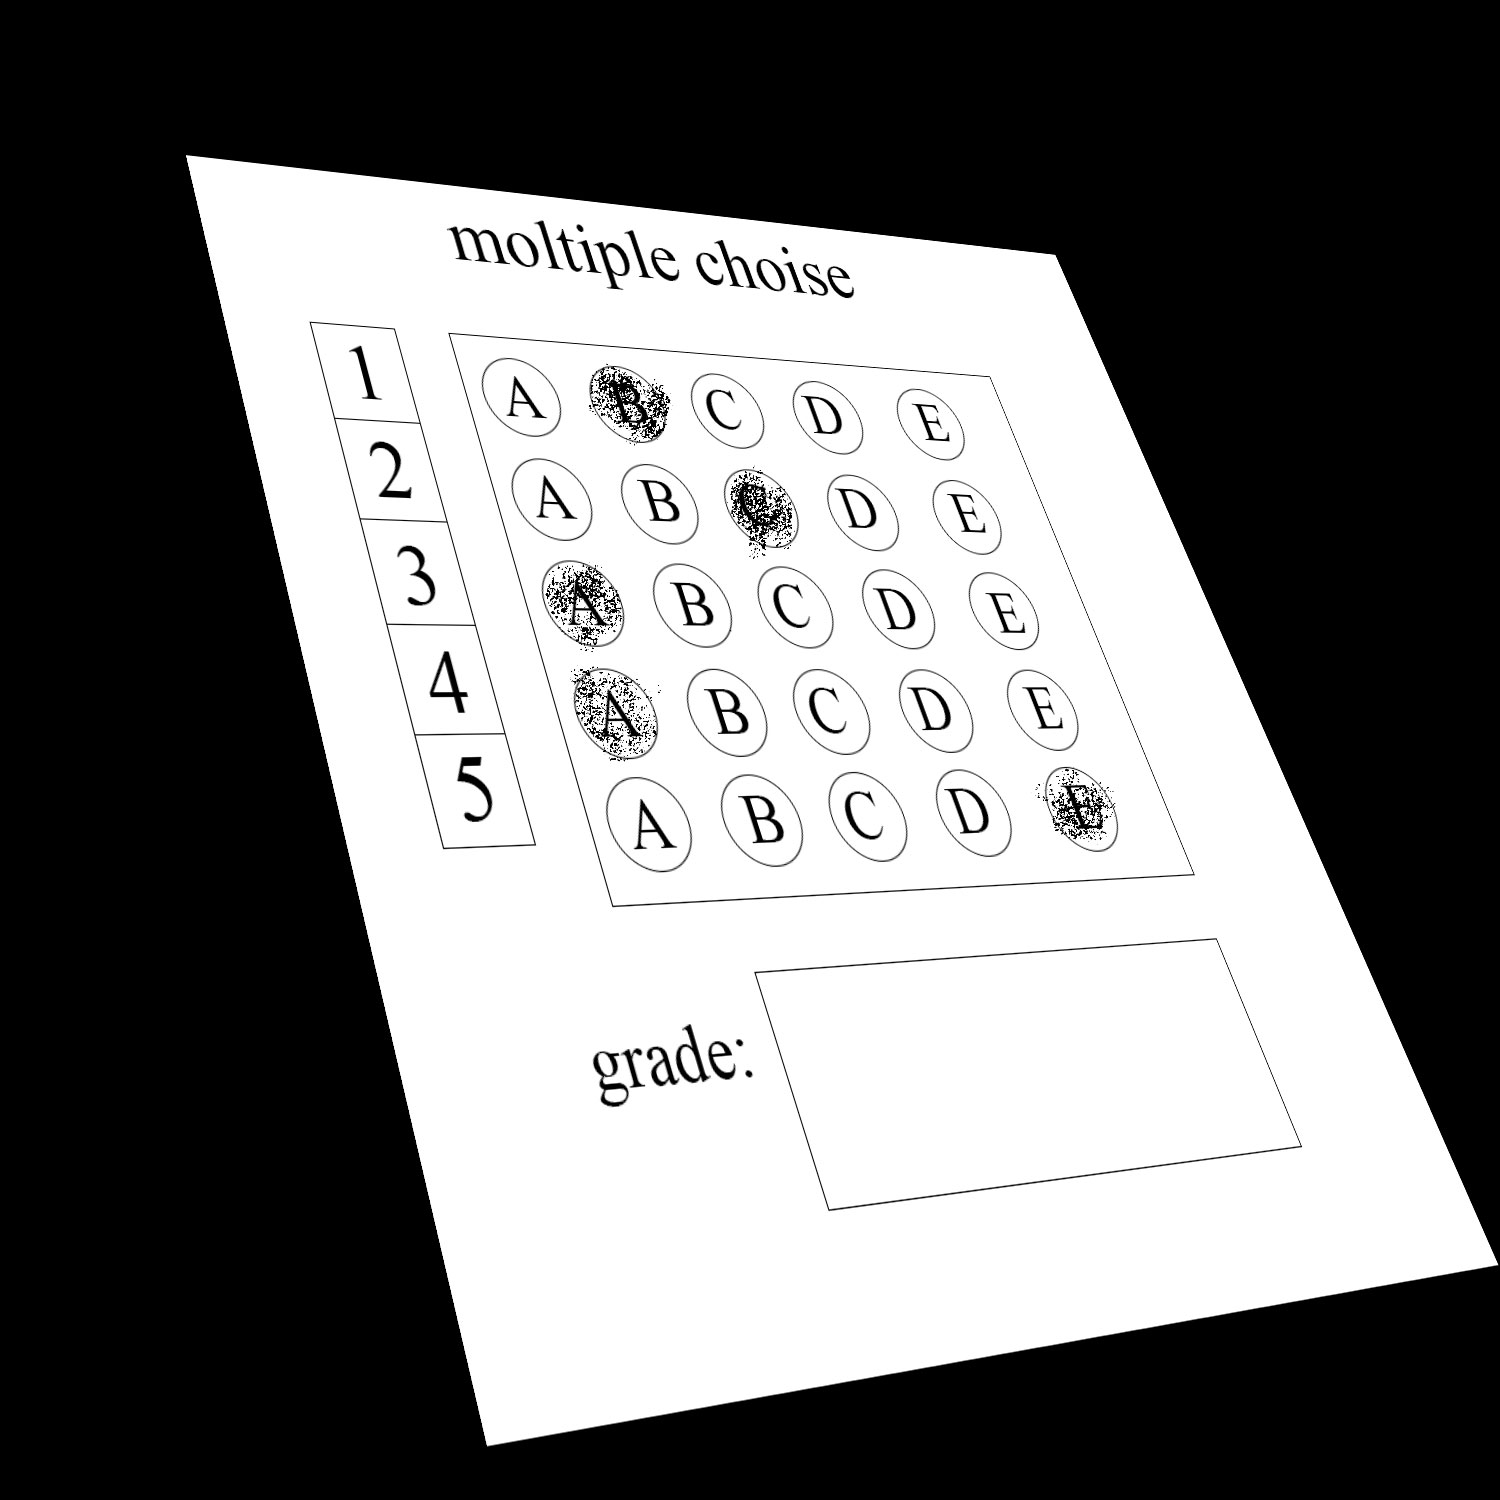
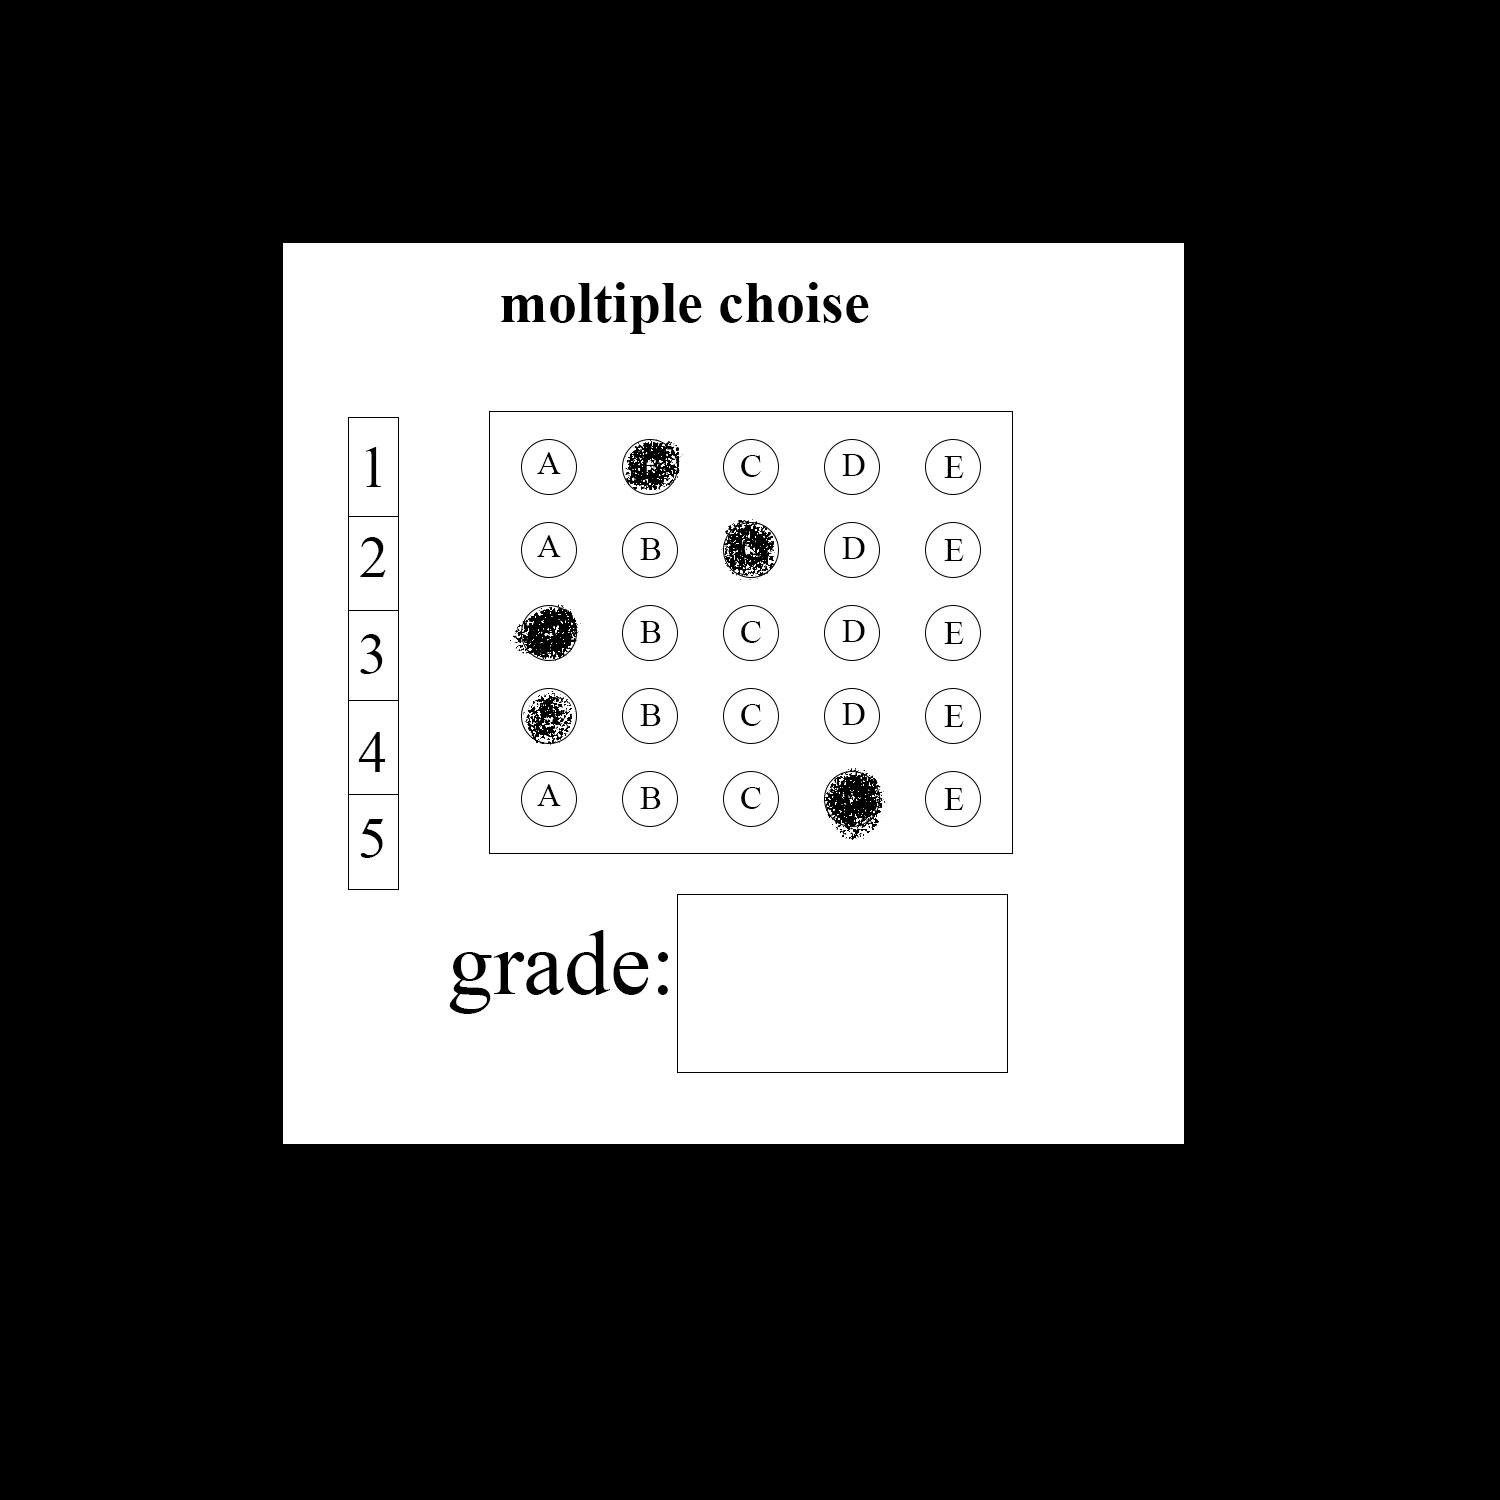
show answer was added

Changed region(s): [[0.184, 0.1533, 1.0, 0.9813], [0.1227, 0.092, 0.736, 0.5827]]

diff --git a/omr.py b/omr.py
@@ -9,15 +9,15 @@ choises = 5
 ans = [1, 2, 0, 1, 4]
 ###########################
 
-img = cv2.imread("./images/test1.jpg")
+img = cv2.imread("./images/test2.jpg")
 img = cv2.resize(img, (widthImg, heightImg))
 imgCountours = img.copy()
 imgBigestCountours = img.copy()
 imgGray = cv2.cvtColor(img, cv2.COLOR_BGR2GRAY)
 
-imgblur = cv2.GaussianBlur(imgGray, (3, 3), 1)
+imgblur = cv2.GaussianBlur(imgGray, (3, 3), 2)
 imgCanny = cv2.Canny(imgblur, 10, 50)
-# imgCanny = cv2.dilate(imgCanny, (3, 3), iterations=1)
+imgCanny = cv2.dilate(imgCanny, (3, 3), iterations=1)
 contours, _ = cv2.findContours(
     imgCanny, cv2.RETR_TREE, cv2.CHAIN_APPROX_SIMPLE)
 
@@ -40,7 +40,7 @@ if biggestContour.size != 0 and gradePoints.size != 0:
                      0, heightImg], [widthImg, heightImg]])
     matrix = cv2.getPerspectiveTransform(pt1, pt2)
     imgWrapColored = cv2.warpPerspective(
-        img, matrix, (widthImg-60, heightImg-10))
+        img, matrix, (widthImg, heightImg))
 
     ptG1 = np.float32(gradePoints)
     ptG2 = np.float32([[0, 0], [325, 0], [
@@ -63,9 +63,25 @@ if biggestContour.size != 0 and gradePoints.size != 0:
     for i in myPixelValue:
         # print(i)
         maxi = np.argmax(i)
-        print(maxi)
+        # print(maxi)
         myIndex.append(maxi)
-    print(myIndex)
+    # print(myIndex)
+    # grading
+    grading = []
+    for x in range(quitions):
+        if ans[x] == myIndex[x]:
+            grading.append(1)
+        else:
+            grading.append(0)
+    # print(grading)
+    score = (sum(grading)/quitions)*100
+    # print(score)
+    imgResult = imgWrapColored.copy()
+    imgResult = utils.showAnswers(
+        imgResult, myIndex, grading, ans, quitions, choises)
+
+    # utils.markAnswers(imgWrapColored, quitions, choises,
+    #                   myIndex, ans, widthImg, heightImg)
 
 cv2.imshow("img", img)
 cv2.imshow("imgCanny", imgCanny)
@@ -74,6 +90,7 @@ cv2.imshow("imgBigestCountours", imgBigestCountours)
 cv2.imshow("imgWrapColored", imgWrapColored)
 cv2.imshow("imgGradeDisply", imgGradeDisply)
 cv2.imshow("imgthersh", imgthersh)
+cv2.imshow("imgResult", imgResult)
 
 if cv2.waitKey(0) & 0xFF == ord("q"):
     cv2.destroyAllWindows()

diff --git a/utils.py b/utils.py
@@ -52,3 +52,45 @@ def splitBoxes(img, qustions=5, choises=5):
             boxes.append(box)
 
     return boxes
+
+
+# def markAnswers(img, quitionsCo, choisesCo, myAns, Answers, widthImg, heightImg):
+#     rowHeight = heightImg/quitionsCo
+#     colWidth = widthImg/choisesCo
+
+    # for row in range(quitionsCo):
+    #     ans = Answers[row]
+    #     myans = myAns[row]
+
+    #     if ans == myans:
+    #         cv2.circle(img, (int(ans*colWidth + (colWidth/2)),
+    #                          int(row * rowHeight + (rowHeight/2))), 30, (0, 255, 0), -1)
+
+    #     else:
+    #         cv2.circle(img, (int(ans*colWidth + (colWidth/2)),
+    #                          int(row * rowHeight + (rowHeight/2))), 15, (0, 255, 0), -1)
+
+    #         cv2.circle(img, (int(myans*colWidth + (colWidth/2)),
+    #                          int(row * rowHeight + (rowHeight/2))), 30, (0, 0, 255), -1)
+
+
+def showAnswers(img, myIndex, grading, ans, quitions, choices):
+    secW = int(img.shape[1]/quitions)
+    secH = int(img.shape[0]/choices)
+
+    for x in range(0, quitions):
+        myAns = myIndex[x]
+        cX = (myAns*secW)+secW//2
+        cY = (x*secH) + secH//2
+
+        if (grading[x] == 1):
+            mycolor = (0, 255, 0)
+        else:
+            mycolor = (0, 0, 255)
+            correctAns = ans[x]
+            cv2.circle(img, ((correctAns*secW)+secW//2, (x*secH) +
+                       secH//2), 20, (0, 255, 0), cv2.FILLED)
+
+        cv2.circle(img, (cX, cY), 50, mycolor, cv2.FILLED)
+
+    return img
